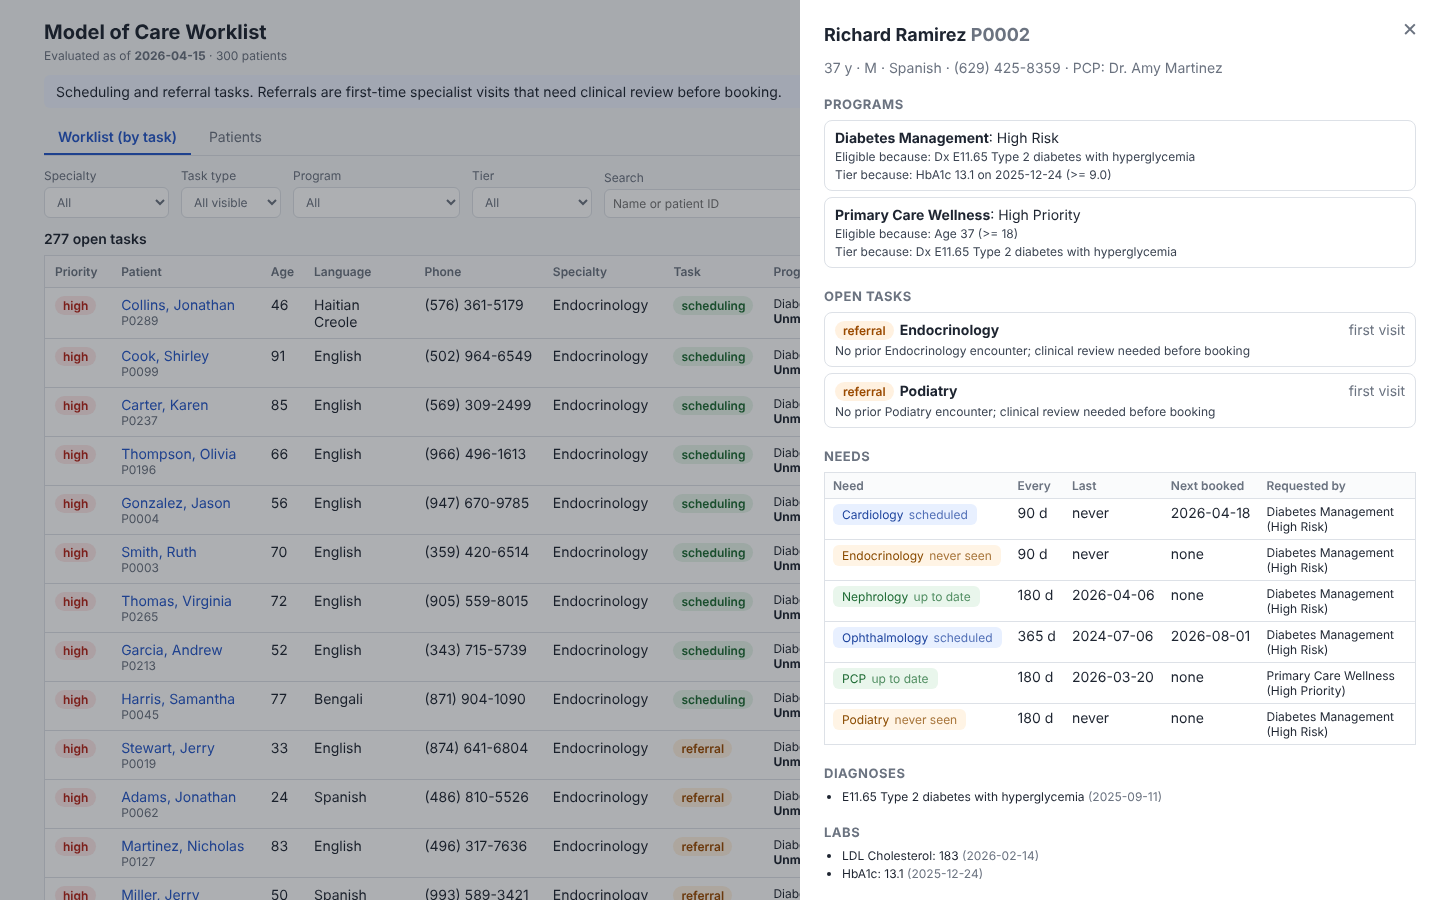
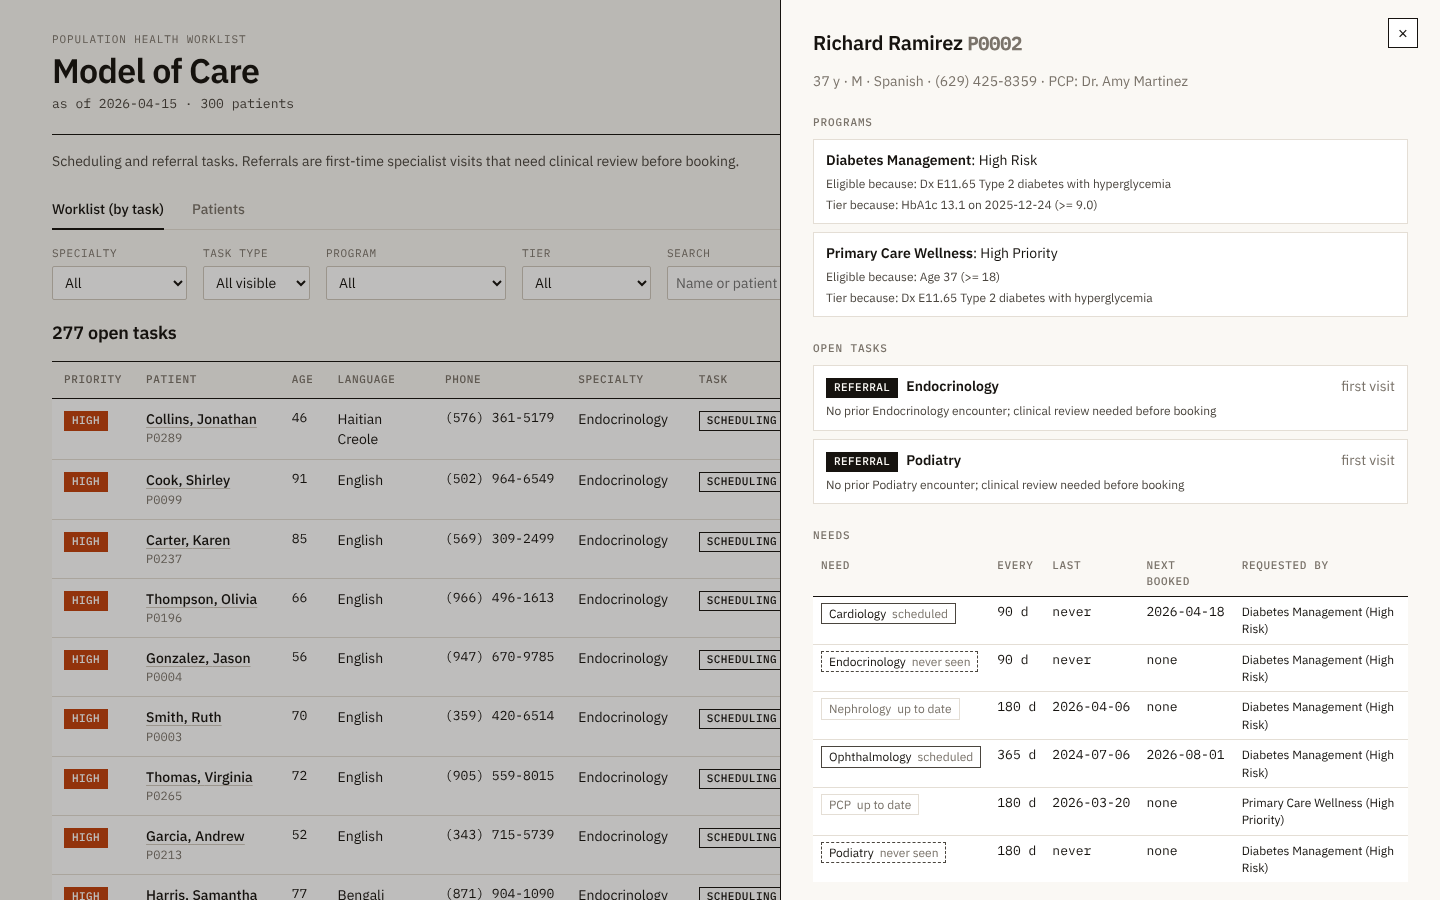
Restyle the UI: IBM Plex, paper and ink, one accent
Replaces the system font stack and generic blue accent with IBM Plex
Sans and Plex Mono (bundled via Fontsource, no external requests), a
warm paper and ink palette, and a single burnt-orange accent reserved
for what needs action: high priority, overdue needs and focus. Figures,
IDs and dates use tabular mono. Borders are crisp; no shadows, blur or
gradients. The patient panel's slide-in is the only animation and
respects prefers-reduced-motion. Screenshots refreshed.

Changed region(s): [[0.0312, 0.0, 0.9688, 1.0], [0.9375, 0.3422, 0.9688, 0.3733], [0.25, 0.4044, 0.2812, 0.4356]]

diff --git a/frontend/src/styles.css b/frontend/src/styles.css
@@ -1,96 +1,143 @@
+/* Paper and ink, one accent. The accent (burnt orange) is reserved for what
+   needs action: high priority, overdue needs, focus. Everything else is ink. */
 :root {
-  font-family: system-ui, -apple-system, "Segoe UI", Roboto, sans-serif;
+  --paper: #faf8f4;
+  --surface: #ffffff;
+  --ink: #16130f;
+  --ink-2: #4a453e;
+  --muted: #7a736a;
+  --rule: #e4ded5;
+  --line: #cfc8bd;
+  --hover: #f4f0ea;
+  --accent: #c2410c;
+  --accent-wash: #fbeae1;
+  --sans: "IBM Plex Sans", sans-serif;
+  --mono: "IBM Plex Mono", monospace;
+
+  font-family: var(--sans);
   font-size: 14px;
-  color: #1d2430;
-  background: #f6f7f9;
-  --border: #dde1e7;
-  --muted: #6b7380;
-  --accent: #2456c8;
+  line-height: 1.45;
+  color: var(--ink);
+  background: var(--paper);
+  -webkit-font-smoothing: antialiased;
 }
 
 * { box-sizing: border-box; }
 body { margin: 0; }
-button { font: inherit; cursor: pointer; }
-.page { padding: 24px; }
+button { font: inherit; color: inherit; cursor: pointer; }
+:focus-visible { outline: 2px solid var(--accent); outline-offset: 2px; }
 
-.app { max-width: 1400px; margin: 0 auto; padding: 20px 24px 60px; }
-
-header { display: flex; justify-content: space-between; align-items: flex-end; gap: 16px; flex-wrap: wrap; }
-h1 { font-size: 20px; margin: 0 0 4px; }
-h2 { font-size: 18px; margin: 0 0 4px; }
-h3 { font-size: 13px; text-transform: uppercase; letter-spacing: 0.04em; color: var(--muted); margin: 20px 0 8px; }
-
+.mono { font-family: var(--mono); font-variant-numeric: tabular-nums; font-size: 0.93em; }
 .muted { color: var(--muted); }
 .small { font-size: 12px; }
 .nowrap { white-space: nowrap; }
-.error { color: #b42318; background: #fef3f2; padding: 8px 12px; border-radius: 6px; }
-.empty { color: var(--muted); padding: 24px 0; }
+.page { padding: 32px; }
+.error { color: var(--ink); border-left: 3px solid var(--accent); padding: 8px 12px; background: var(--surface); }
+.empty { color: var(--muted); padding: 32px 0; }
 
-.role { display: flex; align-items: center; gap: 8px; }
-.segmented { display: inline-flex; border: 1px solid var(--border); border-radius: 8px; overflow: hidden; background: #fff; }
-.segmented button { border: 0; background: transparent; padding: 7px 14px; }
-.segmented button.active { background: var(--accent); color: #fff; }
-.role-help { margin: 12px 0; padding: 8px 12px; background: #eef3ff; border-radius: 6px; }
+/* Layout */
+.app { max-width: 1400px; margin: 0 auto; padding: 32px 32px 64px; }
 
-.tabs { display: flex; gap: 4px; border-bottom: 1px solid var(--border); margin-bottom: 12px; }
-.tabs button { border: 0; background: none; padding: 8px 14px; border-bottom: 2px solid transparent; color: var(--muted); }
-.tabs button.active { color: var(--accent); border-bottom-color: var(--accent); font-weight: 600; }
+header { display: flex; justify-content: space-between; align-items: flex-end; gap: 24px; flex-wrap: wrap; padding-bottom: 20px; border-bottom: 1px solid var(--ink); }
+.overline { font-family: var(--mono); font-size: 11px; letter-spacing: 0.08em; text-transform: uppercase; color: var(--muted); }
+h1 { font-size: 34px; font-weight: 600; letter-spacing: -0.02em; line-height: 1.1; margin: 4px 0 6px; }
+h2 { font-size: 20px; font-weight: 600; letter-spacing: -0.01em; margin: 0 0 4px; }
+h3 { font-family: var(--mono); font-size: 11px; font-weight: 500; text-transform: uppercase; letter-spacing: 0.08em; color: var(--muted); margin: 24px 0 8px; }
+.meta { color: var(--ink-2); }
 
-.filters { display: flex; flex-wrap: wrap; gap: 12px; align-items: flex-end; margin-bottom: 12px; }
-.filters label { display: flex; flex-direction: column; gap: 4px; font-size: 12px; color: var(--muted); }
-.filters label.grow { flex: 1; min-width: 180px; }
-.filters label.checkbox { flex-direction: row; align-items: center; color: inherit; padding-bottom: 6px; }
-.filters select, .filters input[type="search"] {
-  font: inherit; padding: 6px 8px; border: 1px solid var(--border); border-radius: 6px; background: #fff; color: inherit;
+.role { display: flex; align-items: center; gap: 10px; }
+.role > .small { font-family: var(--mono); text-transform: uppercase; letter-spacing: 0.08em; font-size: 11px; }
+.segmented { display: inline-flex; border: 1px solid var(--ink); background: var(--surface); }
+.segmented button { border: 0; background: transparent; padding: 7px 16px; font-weight: 500; }
+.segmented button + button { border-left: 1px solid var(--ink); }
+.segmented button.active { background: var(--ink); color: var(--paper); }
+.segmented button:not(.active):hover { background: var(--hover); }
+
+.role-help { margin: 16px 0 20px; max-width: 760px; color: var(--ink-2); }
+
+.tabs { display: flex; gap: 28px; border-bottom: 1px solid var(--rule); margin-bottom: 16px; }
+.tabs button { border: 0; background: none; padding: 8px 0; margin-bottom: -1px; border-bottom: 2px solid transparent; color: var(--muted); font-weight: 500; }
+.tabs button:hover { color: var(--ink); }
+.tabs button.active { color: var(--ink); border-bottom-color: var(--ink); }
+
+/* Filters */
+.filters { display: flex; flex-wrap: wrap; gap: 12px 16px; align-items: flex-end; margin-bottom: 20px; }
+.filters label { display: flex; flex-direction: column; gap: 4px; font-family: var(--mono); font-size: 11px; text-transform: uppercase; letter-spacing: 0.06em; color: var(--muted); }
+.filters label.grow { flex: 1; min-width: 200px; }
+.filters label.checkbox { flex-direction: row; align-items: center; gap: 8px; padding-bottom: 8px; font-family: var(--sans); font-size: 13px; text-transform: none; letter-spacing: 0; color: var(--ink); }
+.filters select, .filters input[type="search"], .pager select {
+  font: inherit; font-family: var(--sans); font-size: 14px; text-transform: none; letter-spacing: 0;
+  padding: 6px 8px; border: 1px solid var(--line); border-radius: 2px; background: var(--surface); color: var(--ink);
 }
+.filters select:hover, .filters input[type="search"]:hover { border-color: var(--ink-2); }
+.filters input[type="checkbox"] { accent-color: var(--ink); }
 
-button.link { background: none; border: 0; padding: 0; color: var(--accent); text-align: left; }
-button.link:hover { text-decoration: underline; }
-.filters button.link { padding-bottom: 8px; }
+button.link { background: none; border: 0; padding: 0; color: var(--ink); text-align: left; font-weight: 500; text-decoration: underline; text-decoration-color: var(--line); text-underline-offset: 3px; }
+button.link:hover { text-decoration-color: var(--ink); }
+.filters button.link { padding-bottom: 9px; font-family: var(--sans); font-weight: 400; color: var(--ink-2); }
 
-.count { font-weight: 600; }
-.results-head { display: flex; justify-content: space-between; align-items: center; gap: 12px; flex-wrap: wrap; margin: 4px 0 8px; }
-.results-foot { margin-top: 12px; }
-.results.loading { opacity: 0.55; transition: opacity 0.15s; }
+/* Results */
+.results { transition: opacity 0.12s; }
+.results.loading { opacity: 0.5; }
+.results-head { display: flex; justify-content: space-between; align-items: baseline; gap: 12px; flex-wrap: wrap; margin-bottom: 10px; }
+.count { font-size: 18px; font-weight: 600; letter-spacing: -0.01em; }
+.results-foot { margin-top: 14px; }
 
-table { width: 100%; border-collapse: collapse; background: #fff; border: 1px solid var(--border); border-radius: 8px; }
-th, td { text-align: left; padding: 8px 10px; border-bottom: 1px solid var(--border); vertical-align: top; }
-th { font-size: 12px; color: var(--muted); font-weight: 600; background: #fafbfc; position: sticky; top: 0; }
+.pager { display: flex; align-items: center; gap: 12px; justify-content: flex-end; font-size: 13px; color: var(--ink-2); }
+.pager label { display: flex; align-items: center; gap: 8px; color: var(--muted); }
+.pager select { font-size: 13px; padding: 4px 6px; }
+.pager button { padding: 5px 14px; border: 1px solid var(--ink); background: var(--surface); }
+.pager button:not(:disabled):hover { background: var(--ink); color: var(--paper); }
+.pager button:disabled { border-color: var(--rule); color: var(--line); cursor: default; }
+
+/* Tables */
+table { width: 100%; border-collapse: collapse; background: var(--surface); border-top: 1px solid var(--ink); border-bottom: 1px solid var(--ink); }
+th, td { text-align: left; padding: 10px 12px; border-bottom: 1px solid var(--rule); vertical-align: top; }
+th { font-family: var(--mono); font-size: 11px; font-weight: 500; text-transform: uppercase; letter-spacing: 0.06em; color: var(--muted); background: var(--paper); border-bottom: 1px solid var(--ink); position: sticky; top: 0; }
+tbody tr:hover td { background: var(--hover); }
 tr:last-child td { border-bottom: 0; }
-td.reason { max-width: 320px; color: #3b4452; }
-table.compact th, table.compact td { padding: 5px 8px; }
+td.reason { max-width: 320px; color: var(--ink-2); }
+table.compact { border-top: 0; border-bottom: 0; }
+table.compact th, table.compact td { padding: 6px 8px; }
 
-.badge { display: inline-block; padding: 2px 8px; border-radius: 999px; font-size: 12px; font-weight: 600; }
-.badge-scheduling { background: #e6f4ea; color: #1e6b34; }
-.badge-referral { background: #fff1e0; color: #9a4a00; }
-.badge-priority-high { background: #fde8e8; color: #b42318; }
-.badge-scheduled { background: #e8f0ff; color: #2456c8; }
+/* Labels. Shape and weight carry meaning; only "needs action" gets the accent. */
+.badge { display: inline-block; padding: 1px 7px; font-family: var(--mono); font-size: 11px; font-weight: 500; text-transform: uppercase; letter-spacing: 0.04em; border: 1px solid var(--ink); white-space: nowrap; }
+.badge-priority-high { background: var(--accent); border-color: var(--accent); color: var(--surface); }
+.badge-scheduling { color: var(--ink); }
+.badge-referral { background: var(--ink); color: var(--paper); }
+.badge-scheduled { border-style: dashed; color: var(--ink-2); }
 
-.wrap { display: flex; flex-wrap: wrap; gap: 4px; }
-.chip { display: inline-block; padding: 2px 8px; border-radius: 6px; font-size: 12px; border: 1px solid transparent; white-space: nowrap; }
-.chip em { font-style: normal; opacity: 0.75; margin-left: 2px; }
-.chip-overdue { background: #fde8e8; color: #9b1c1c; }
-.chip-never_seen { background: #fff4e5; color: #8a4b00; }
-.chip-scheduled { background: #e8f0ff; color: #1e449e; }
-.chip-up_to_date { background: #e9f6ec; color: #1e6b34; }
-.chip-task-scheduling { border-color: #9fd3ad; color: #1e6b34; }
-.chip-task-referral { border-color: #f5c07a; color: #8a4b00; }
-
-.pager { display: flex; align-items: center; gap: 12px; justify-content: flex-end; font-size: 13px; }
-.pager label { display: flex; align-items: center; gap: 6px; color: var(--muted); }
-.pager select { font: inherit; padding: 4px 6px; border: 1px solid var(--border); border-radius: 6px; background: #fff; }
-.pager button { padding: 5px 12px; border: 1px solid var(--border); background: #fff; border-radius: 6px; }
-.pager button:disabled { opacity: 0.4; cursor: default; }
-
-.drawer-backdrop { position: fixed; inset: 0; background: rgba(20, 25, 35, 0.35); display: flex; justify-content: flex-end; }
-.drawer { width: min(640px, 100%); height: 100%; overflow-y: auto; background: #fff; padding: 24px; position: relative; }
-.drawer .close { position: absolute; top: 12px; right: 16px; border: 0; background: none; font-size: 24px; color: var(--muted); }
-.drawer ul { padding-left: 18px; margin: 0; }
-.drawer li { margin-bottom: 3px; }
-.card { border: 1px solid var(--border); border-radius: 8px; padding: 8px 10px; margin-bottom: 6px; }
-.card .small { margin-top: 3px; color: #3b4452; }
-.task-head { display: flex; align-items: baseline; gap: 6px; }
-.task-head .grow { flex: 1; }
-.task-head .small { display: inline; margin-left: 6px; }
 .tier-line { white-space: nowrap; }
 .tier-line + .tier-line { margin-top: 4px; }
+
+.wrap { display: flex; flex-wrap: wrap; gap: 4px; }
+.chip { display: inline-block; padding: 1px 7px; font-size: 12px; border: 1px solid var(--line); white-space: nowrap; color: var(--ink); }
+.chip em { font-style: normal; color: var(--muted); margin-left: 3px; }
+.chip-overdue { border-color: var(--accent); color: var(--accent); background: var(--accent-wash); }
+.chip-overdue em { color: var(--accent); }
+.chip-never_seen { border-style: dashed; border-color: var(--ink-2); }
+.chip-scheduled { border-color: var(--ink-2); }
+.chip-up_to_date { color: var(--muted); border-color: var(--rule); }
+.chip-task-scheduling { border-color: var(--ink); }
+.chip-task-referral { background: var(--ink); border-color: var(--ink); color: var(--paper); }
+.chip-task-referral em { color: var(--line); }
+
+/* Patient panel: the one animated element, sliding in from the edge it lives on. */
+.drawer-backdrop { position: fixed; inset: 0; background: rgba(22, 19, 15, 0.28); display: flex; justify-content: flex-end; animation: fade-in 0.15s ease-out; }
+.drawer { width: min(660px, 100%); height: 100%; overflow-y: auto; background: var(--paper); border-left: 1px solid var(--ink); padding: 28px 32px; position: relative; animation: slide-in 0.2s ease-out; }
+.drawer .close { position: absolute; top: 18px; right: 22px; border: 1px solid var(--ink); background: var(--surface); width: 30px; height: 30px; font-size: 18px; line-height: 1; }
+.drawer .close:hover { background: var(--ink); color: var(--paper); }
+.drawer ul { padding-left: 18px; margin: 0; }
+.drawer li { margin-bottom: 4px; }
+.card { border: 1px solid var(--rule); background: var(--surface); padding: 10px 12px; margin-bottom: 8px; }
+.card .small { margin-top: 4px; color: var(--ink-2); }
+.task-head { display: flex; align-items: baseline; gap: 8px; }
+.task-head .grow { flex: 1; }
+.task-head .small { display: inline; margin-left: 6px; }
+
+@keyframes slide-in { from { transform: translateX(24px); opacity: 0; } }
+@keyframes fade-in { from { opacity: 0; } }
+@media (prefers-reduced-motion: reduce) {
+  .drawer, .drawer-backdrop { animation: none; }
+  .results { transition: none; }
+}

diff --git a/frontend/src/components/PatientDrawer.tsx b/frontend/src/components/PatientDrawer.tsx
@@ -31,7 +31,7 @@ export function PatientDrawer({ id, role, programNames, onClose }: Props) {
         {p && (
           <>
             <h2>
-              {p.first_name} {p.last_name} <span className="muted">{p.patient_id}</span>
+              {p.first_name} {p.last_name} <span className="muted mono">{p.patient_id}</span>
             </h2>
             <p className="muted">
               {p.age} y · {p.gender} · {p.language} · {p.phone} · PCP: {p.pcp_provider_name ?? "none assigned"}
@@ -78,9 +78,9 @@ export function PatientDrawer({ id, role, programNames, onClose }: Props) {
                     <td>
                       <NeedChip need={n} />
                     </td>
-                    <td className="nowrap">{n.cadence_days} d</td>
-                    <td className="nowrap">{n.last_date ?? "never"}</td>
-                    <td className="nowrap">{n.next_scheduled_date ?? "none"}</td>
+                    <td className="nowrap mono">{n.cadence_days} d</td>
+                    <td className="nowrap mono">{n.last_date ?? "never"}</td>
+                    <td className="nowrap mono">{n.next_scheduled_date ?? "none"}</td>
                     <td className="small">
                       {n.sources.map((s) => `${programNames[s.program_id] ?? s.program_id} (${s.tier})`).join(", ")}
                     </td>
@@ -93,7 +93,7 @@ export function PatientDrawer({ id, role, programNames, onClose }: Props) {
             <ul className="small">
               {p.diagnoses.map((d) => (
                 <li key={`${d.icd_code}${d.diagnosed_date}`}>
-                  {d.icd_code} {d.description} <span className="muted">({d.diagnosed_date})</span>
+                  {d.icd_code} {d.description} <span className="muted mono">({d.diagnosed_date})</span>
                 </li>
               ))}
               {p.diagnoses.length === 0 && <li className="muted">None on record</li>}
@@ -103,7 +103,7 @@ export function PatientDrawer({ id, role, programNames, onClose }: Props) {
             <ul className="small">
               {p.labs.map((l) => (
                 <li key={`${l.test_name}${l.result_date}`}>
-                  {l.test_name}: {l.result_value} <span className="muted">({l.result_date})</span>
+                  {l.test_name}: {l.result_value} <span className="muted mono">({l.result_date})</span>
                 </li>
               ))}
               {p.labs.length === 0 && <li className="muted">None on record</li>}
@@ -113,7 +113,7 @@ export function PatientDrawer({ id, role, programNames, onClose }: Props) {
             <ul className="small">
               {p.encounters.map((e, i) => (
                 <li key={i}>
-                  {e.upcoming && <span className="badge badge-scheduled">upcoming</span>} {e.encounter_date} · {e.specialty} ·{" "}
+                  {e.upcoming && <span className="badge badge-scheduled">upcoming</span>} <span className="mono">{e.encounter_date}</span> · {e.specialty} ·{" "}
                   {e.provider_name}
                 </li>
               ))}

diff --git a/frontend/src/components/WorklistTable.tsx b/frontend/src/components/WorklistTable.tsx
@@ -34,11 +34,11 @@ export function WorklistTable({ items, onOpenPatient }: Props) {
               <button className="link nowrap" onClick={() => onOpenPatient(patient.patient_id)}>
                 {patient.last_name}, {patient.first_name}
               </button>
-              <div className="muted small">{patient.patient_id}</div>
+              <div className="muted small mono">{patient.patient_id}</div>
             </td>
-            <td>{patient.age}</td>
+            <td className="mono">{patient.age}</td>
             <td>{patient.language}</td>
-            <td className="nowrap">{patient.phone}</td>
+            <td className="nowrap mono">{patient.phone}</td>
             <td>{task.target}</td>
             <td>
               <TaskTypeBadge type={task.task_type} />

diff --git a/frontend/src/App.tsx b/frontend/src/App.tsx
@@ -50,9 +50,10 @@ function Main({ meta }: { meta: Meta }) {
     <div className="app">
       <header>
         <div>
-          <h1>Model of Care Worklist</h1>
-          <div className="muted small" title={`Rules version ${meta.run.rules_version}`}>
-            Evaluated as of <strong>{meta.run.as_of}</strong> · {meta.run.patients_evaluated} patients
+          <div className="overline">Population health worklist</div>
+          <h1>Model of Care</h1>
+          <div className="meta mono" title={`Rules version ${meta.run.rules_version}`}>
+            as of {meta.run.as_of} · {meta.run.patients_evaluated} patients
           </div>
         </div>
         <div className="role">

diff --git a/frontend/src/components/PatientsTable.tsx b/frontend/src/components/PatientsTable.tsx
@@ -27,9 +27,9 @@ export function PatientsTable({ items, onOpenPatient }: Props) {
               <button className="link nowrap" onClick={() => onOpenPatient(p.patient_id)}>
                 {p.last_name}, {p.first_name}
               </button>
-              <div className="muted small">{p.patient_id}</div>
+              <div className="muted small mono">{p.patient_id}</div>
             </td>
-            <td>{p.age}</td>
+            <td className="mono">{p.age}</td>
             <td className="small">{p.pcp_provider_name ?? <span className="muted">none assigned</span>}</td>
             <td>
               {p.enrollments.length ? (

diff --git a/frontend/src/components/badges.tsx b/frontend/src/components/badges.tsx
@@ -55,8 +55,8 @@ export function DueCell({ task }: { task: Task }) {
   if (task.task_type === "referral") return <span className="muted">first visit</span>;
   return (
     <span>
-      <strong>{task.days_overdue} days</strong>
-      <div className="muted small">due {task.due_date}</div>
+      <strong className="mono">{task.days_overdue} days</strong>
+      <div className="muted small mono">due {task.due_date}</div>
     </span>
   );
 }

diff --git a/frontend/src/main.tsx b/frontend/src/main.tsx
@@ -1,5 +1,10 @@
 import { StrictMode } from "react";
 import { createRoot } from "react-dom/client";
+import "@fontsource/ibm-plex-sans/400.css";
+import "@fontsource/ibm-plex-sans/500.css";
+import "@fontsource/ibm-plex-sans/600.css";
+import "@fontsource/ibm-plex-mono/400.css";
+import "@fontsource/ibm-plex-mono/500.css";
 import App from "./App";
 import "./styles.css";
 

diff --git a/frontend/src/components/Pager.tsx b/frontend/src/components/Pager.tsx
@@ -22,7 +22,7 @@ export function Pager({ total, limit, offset, onOffset, onLimit }: Props) {
           ))}
         </select>
       </label>
-      <span>
+      <span className="mono">
         {offset + 1} to {end} of {total}
       </span>
       <button disabled={offset === 0} onClick={() => onOffset(Math.max(0, offset - limit))}>
